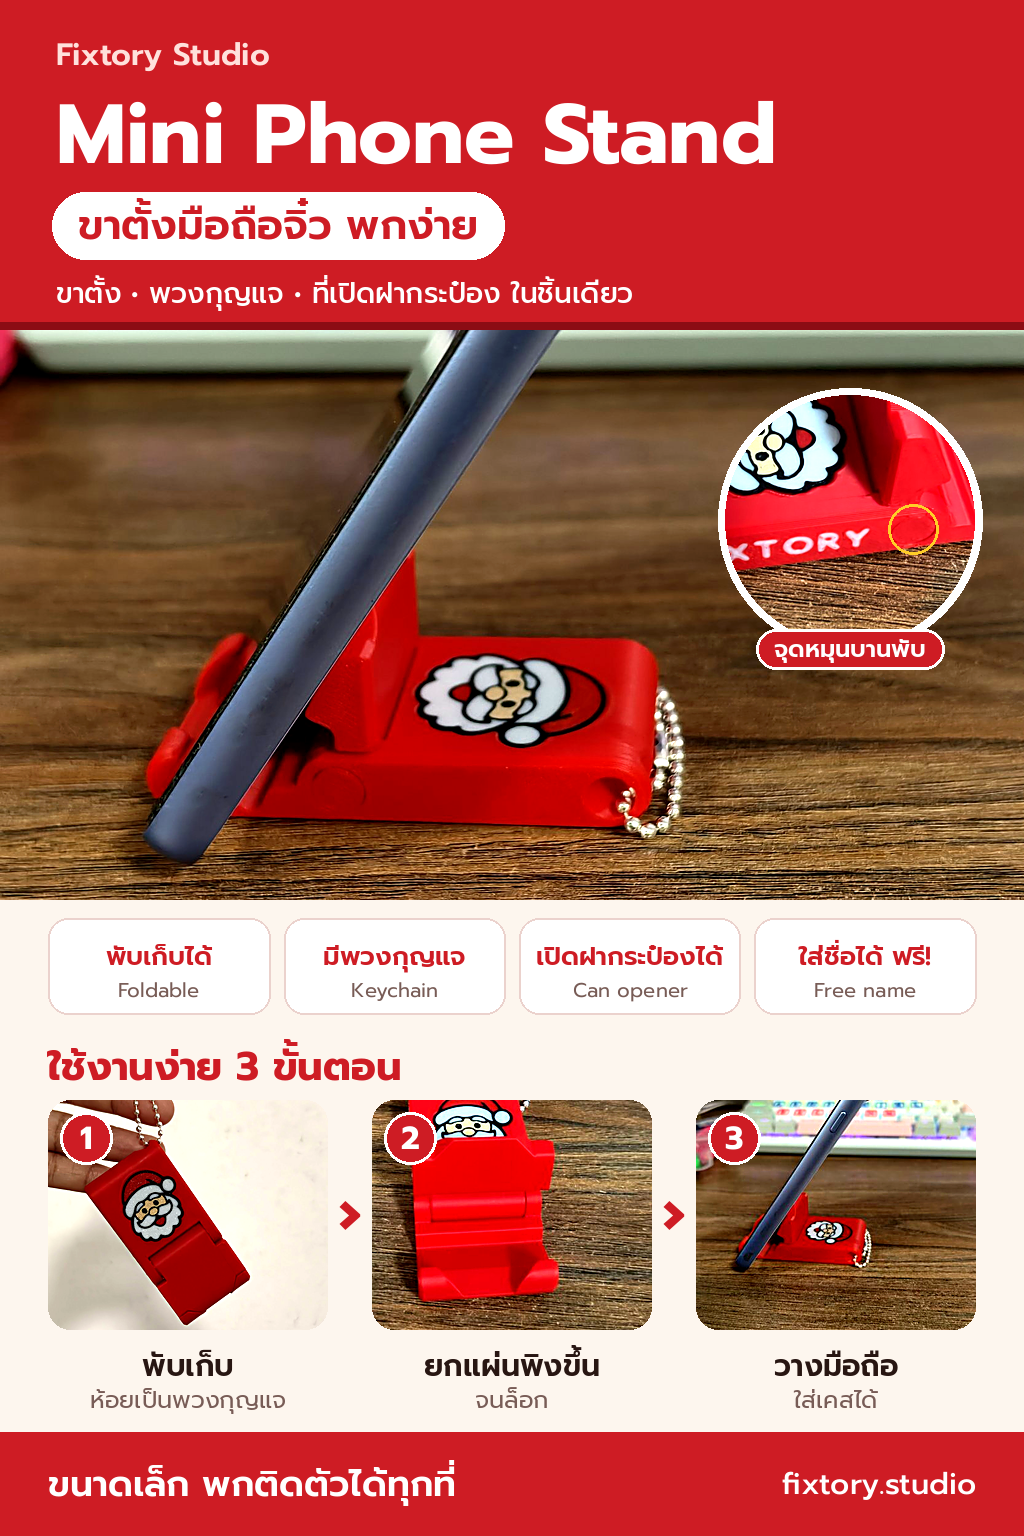
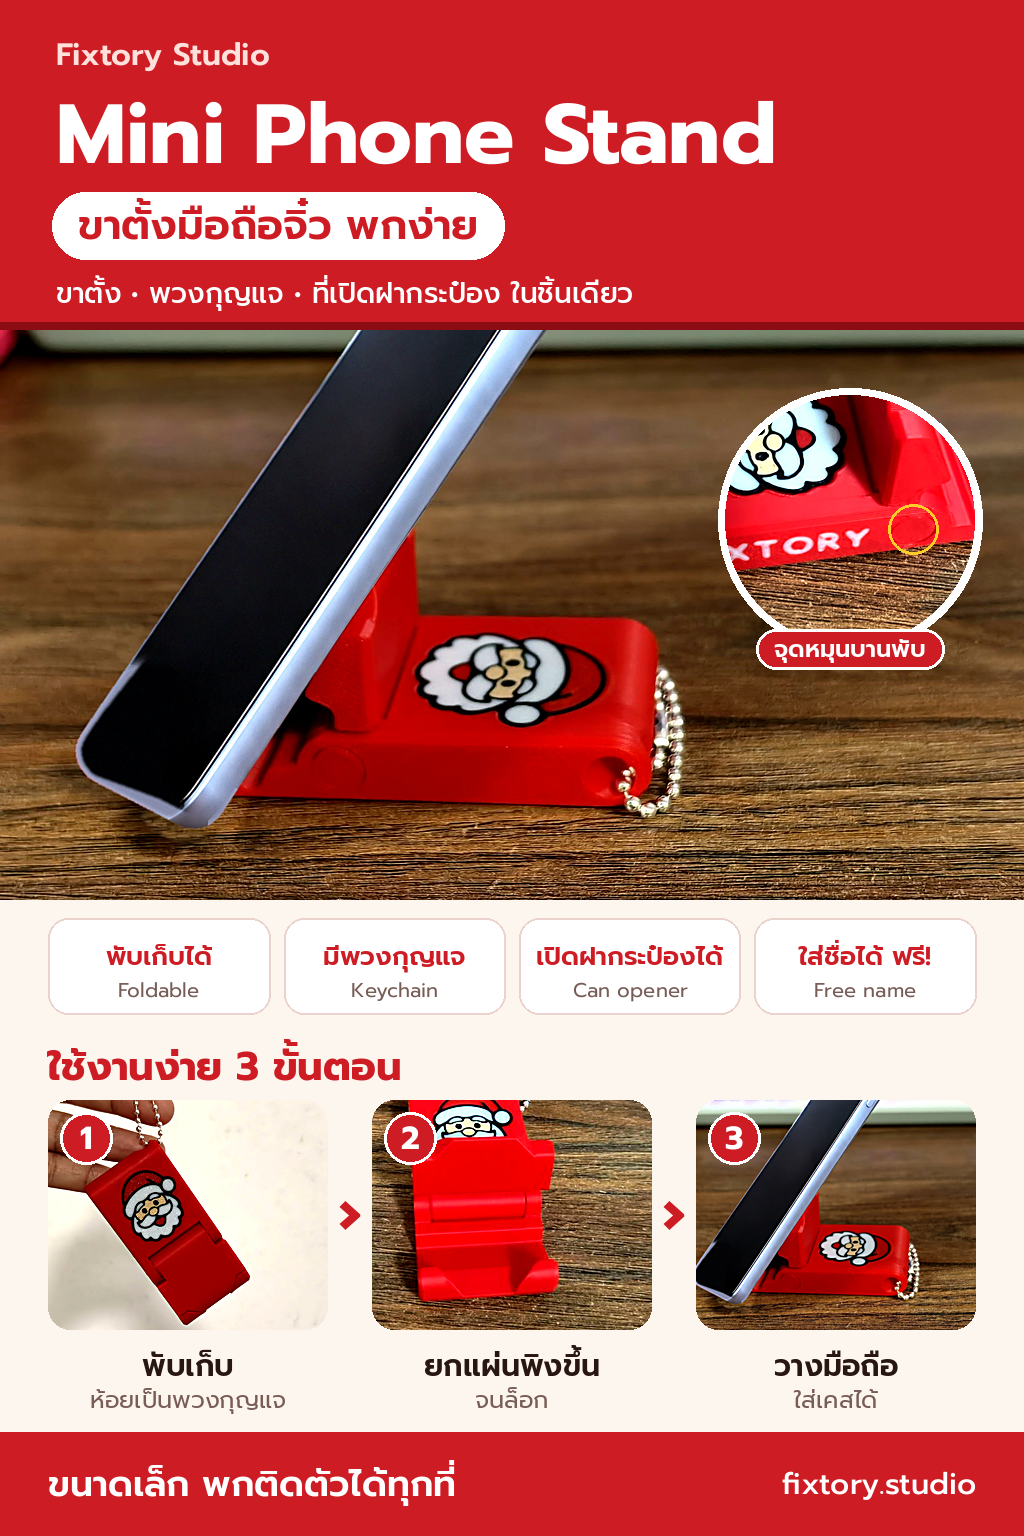
ref: swap the demo phone for the clean phone from the AI poster (stills only)
08_newphone.jpg = real product photo 08 + phone cut from the AI poster (swap_phone.py);
the product itself stays the real photo. Hero + step 3 of the social set rebuilt.

Claude-Session: https://claude.ai/code/session_019RUqraWLLV2PRspZjKHWCw

Changed region(s): [[0.0, 0.1875, 1.0, 0.5938], [0.6562, 0.7188, 0.9688, 0.875], [0.125, 0.3438, 0.1562, 0.375]]

diff --git a/ref/phonestand-photos/swap_phone.py b/ref/phonestand-photos/swap_phone.py
@@ -1,0 +1,80 @@
+"""Swap the demo phone in 08_clean.jpg for the clean phone from the AI poster (phone only; the product stays the real photo)."""
+import numpy as np, cv2, sys
+from PIL import Image
+AI, SRC, OUT = sys.argv[1], sys.argv[2], sys.argv[3]
+ai = cv2.cvtColor(cv2.imread(AI), cv2.COLOR_BGR2RGB)
+H, W = ai.shape[:2]
+
+# --- phone mask in the AI image (edges measured on the image) ---
+xl = lambda y: 832 - 0.528 * y          # left outer edge
+xr = lambda y: 1007 - 0.508 * y         # right outer edge (frame)
+yt = lambda x: 113 - 0.169 * (x - 771)  # top edge
+yb = lambda x: 930 + 0.377 * (x - 467)  # bottom edge
+def inter(fx, fy):
+    y = 500.0
+    for _ in range(60): x = fx(y); y = fy(x)
+    return (fx(y), y)
+TL, TR, BR, BL = inter(xl, yt), inter(xr, yt), inter(xr, yb), inter(xl, yb)
+m = np.zeros((H, W), np.uint8)
+cv2.fillPoly(m, [np.array([TL, TR, BR, BL], np.int32)], 255)
+k = cv2.getStructuringElement(cv2.MORPH_ELLIPSE, (71, 71))
+m = cv2.morphologyEx(m, cv2.MORPH_OPEN, k)              # round the corners
+m = cv2.erode(m, np.ones((3, 3), np.uint8))
+# red hooks in front of the phone's bottom-left: repaint those pixels as phone
+# (frame colour near the outline, screen black inside), sampled from the visible bottom of the phone
+r, g, b = [ai[..., i].astype(int) for i in range(3)]
+ys0 = np.mgrid[0:H, 0:W][0]
+occ = ((r - g > 10) & (r - b > 8)) & (m > 0) & (ys0 > 780) & (ys0 > 1.45 * (np.mgrid[0:H, 0:W][1]) + 100)
+dist = cv2.distanceTransform(m, cv2.DIST_L2, 5)
+ys, xs = np.mgrid[0:H, 0:W]
+zone = (ys > 780) & (ys > 1.45 * xs + 100) & (xs < 470) & (m > 0)
+occ |= zone  # repaint the whole hidden corner
+occ = cv2.dilate(occ.astype(np.uint8), np.ones((7, 7), np.uint8)).astype(bool) & (m > 0)
+near_bottom = (ys > 820) & (m > 0) & ~occ
+FR = 14
+FRx = 5 + 9 * np.clip((xs - 400) / 70, 0, 1)
+frame_c = np.median(ai[near_bottom & (dist > 2) & (dist < FR)], 0)
+screen_c = np.median(ai[near_bottom & (dist > FR + 12)], 0)
+t = np.clip((dist - FRx) / 3, 0, 1)[..., None]
+# frame: a little lighter at the outer rim, like the visible frame
+rim = np.clip(1 - dist / 6, 0, 1)[..., None] * 18
+fill = (frame_c + rim) * (1 - t) + screen_c * t
+phone = ai.copy()
+oa = np.clip(cv2.GaussianBlur(occ.astype(np.float32), (0, 0), 6) * 1.6, 0, 1)[..., None]
+oa = np.where(occ[..., None], np.maximum(oa, 0.85), oa)
+phone = (ai * (1 - oa) + cv2.GaussianBlur(fill.astype(np.float32), (0, 0), 1.0) * oa).astype(np.uint8)
+ring = (cv2.dilate(m, np.ones((15, 15), np.uint8)) > 0) & (m == 0)
+phone = cv2.inpaint(phone, ring.astype(np.uint8) * 255, 5, cv2.INPAINT_TELEA)
+
+# --- place it on the real photo: AI bottom-right corner -> old phone bottom-right corner ---
+src = cv2.cvtColor(cv2.imread(SRC), cv2.COLOR_BGR2RGB)
+SH, SW = src.shape[:2]
+sr, sg, sb = [src[..., i].astype(int) for i in range(3)]
+tip = np.zeros((SH, SW), bool); tip[1370:1495, 200:370] = True
+tip &= (sb > sr + 2)
+tip = cv2.dilate(tip.astype(np.uint8), np.ones((9, 9), np.uint8))
+tipm = cv2.GaussianBlur(tip.astype(np.float32), (0, 0), 3)[..., None]
+src = (src * (1 - tipm) + np.roll(src, 190, axis=1) * tipm).astype(np.uint8)
+S = float(sys.argv[4]) if len(sys.argv) > 4 else 1.85
+a_ai, a_old = np.degrees(np.arctan(0.508)), np.degrees(np.arctan(0.663))
+A = cv2.getRotationMatrix2D(BR, -(a_old - a_ai), S)
+tgt = (335, 1466)
+A[:, 2] += np.array(tgt) - np.array(BR)
+ph = cv2.warpAffine(phone, A, (SW, SH), flags=cv2.INTER_LANCZOS4)
+pm = cv2.warpAffine(m, A, (SW, SH), flags=cv2.INTER_LINEAR).astype(np.float32) / 255
+pm = cv2.GaussianBlur(pm, (0, 0), 0.8)
+# soften to the photo's sharpness, add a little grain, match warmth slightly
+ph = cv2.GaussianBlur(ph, (0, 0), 0.7).astype(np.float32)
+ph += np.random.default_rng(3).normal(0, 2.2, ph.shape)
+ph *= np.array([1.02, 1.0, 0.97])
+# contact shadow under the bottom edge
+sh = np.zeros((SH, SW), np.float32)
+bl_w = A @ np.array([BL[0], BL[1], 1]); br_w = A @ np.array([BR[0], BR[1], 1])
+cv2.line(sh, tuple(int(v) for v in bl_w + (0, 8)), tuple(int(v) for v in br_w + (0, 8)), 1.0, 26)
+sh = cv2.GaussianBlur(sh, (0, 0), 14) * 0.45
+base = src.astype(np.float32) * (1 - sh[..., None])
+out = base * (1 - pm[..., None]) + ph * pm[..., None]
+
+Image.fromarray(np.clip(out, 0, 255).astype(np.uint8)).save(OUT, quality=95)
+np.save(OUT + '.mask.npy', pm)
+print('corners AI', [tuple(round(v) for v in c) for c in (TL, TR, BR, BL)], 'placed bottom', bl_w, br_w)

diff --git a/ref/phonestand-photos/social_v1_make.py b/ref/phonestand-photos/social_v1_make.py
@@ -43,12 +43,12 @@ def rounded(canvas, im, xy, r):
 
 
 # Source crops (full-res originals; bottom ~12% of each photo holds the camera watermark, kept out)
-HERO = ('08_clean.jpg', (0, 300, 1666, 1900))          # phone leaning on the stand, Santa face visible
+HERO = ('08_newphone.jpg', (0, 300, 1666, 1900))          # phone leaning on the stand, Santa face visible
 HINGE = ('13.jpg', (560, 840, 1140, 1420))       # flat round pivot disc set in the side wall + FIXTORY
 HINGE_DOT = (438 / 580, 312 / 580)                # disc centre inside that crop
 STEPS = [('16.jpg', (230, 380, 1530, 1480), 'พับเก็บ', 'ห้อยเป็นพวงกุญแจ'),
          ('crop_s2.jpg', None, 'ยกแผ่นพิงขึ้น', 'จนล็อก'),
-         ('crop_s3.jpg', None, 'วางมือถือ', 'ใส่เคสได้')]
+         ('08_newphone.jpg', (0, 560, 1500, 1560), 'วางมือถือ', 'ใส่เคสได้')]
 FEATS = [('พับเก็บได้', 'Foldable'), ('มีพวงกุญแจ', 'Keychain'),
          ('เปิดฝากระป๋องได้', 'Can opener'), ('ใส่ชื่อได้ ฟรี!', 'Free name')]
 
@@ -154,7 +154,7 @@ class Poster:
 # 1) Portrait 2:3 (1024x1536) — alternative layout: title in a solid band, not over the phone
 p = Poster(1024, 1536)
 p.header(0, 330)
-p.hero(330, 570, centering=(0.6, 0.45))
+p.hero(330, 570, centering=(0.5, 0.5))
 p.hinge(850, 520, 125, 24)
 p.chips(918)
 p.steps(1036)
@@ -164,7 +164,7 @@ p.save('mini_phone_stand_2x3_alt.png')
 # 2) Square 1:1 (1080x1080) — IG/FB feed
 s = Poster(1080, 1080)
 s.header(0, 300, title=80, sub=38, line=26)
-s.hero(300, 560, centering=(0.6, 0.45))
+s.hero(300, 560, centering=(0.5, 0.5))
 s.hinge(905, 500, 118, 22)
 s.chips(876, h=90, th=25, en=19)
 s.footer(h=96, size=32)
@@ -174,7 +174,7 @@ s.save('mini_phone_stand_1x1.png')
 t = Poster(1080, 1920)
 t.d.rectangle((0, 0, 1080, 220), fill=RED)
 t.header(200, 560, title=92, sub=44, line=30, center=True)
-t.hero(560, 640, centering=(0.6, 0.45))
+t.hero(560, 640, centering=(0.5, 0.5))
 t.hinge(890, 790, 130, 24)
 t.chips(1226, cols=2, h=88, th=30, en=20)
 t.steps(1428, ph=190, head=36, t1=28, t2=22)
